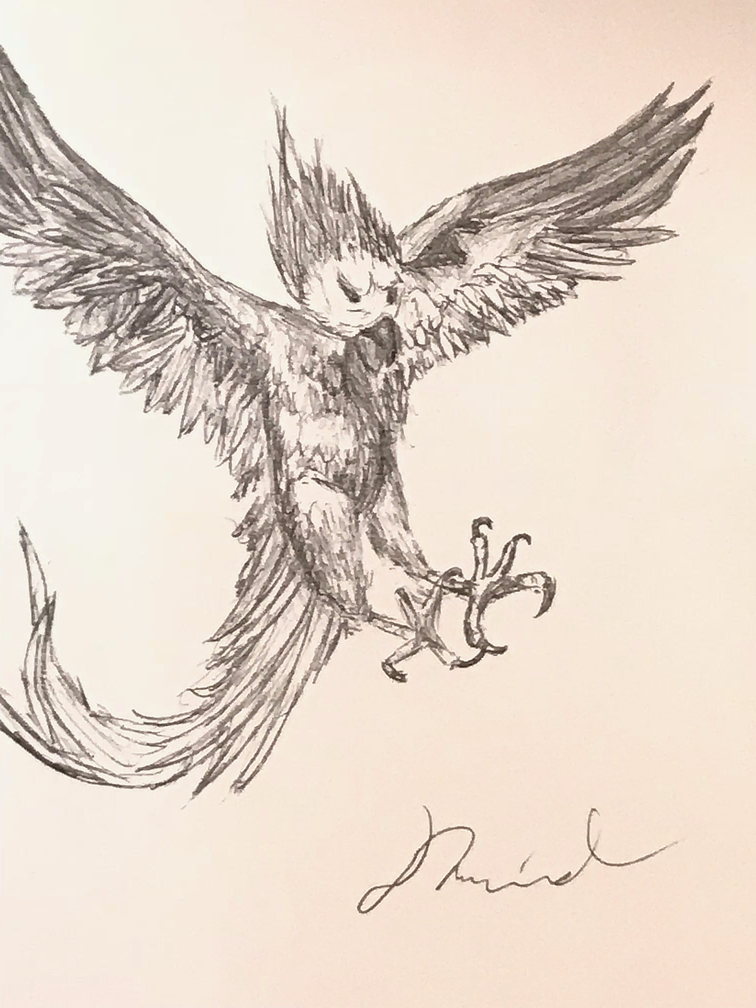
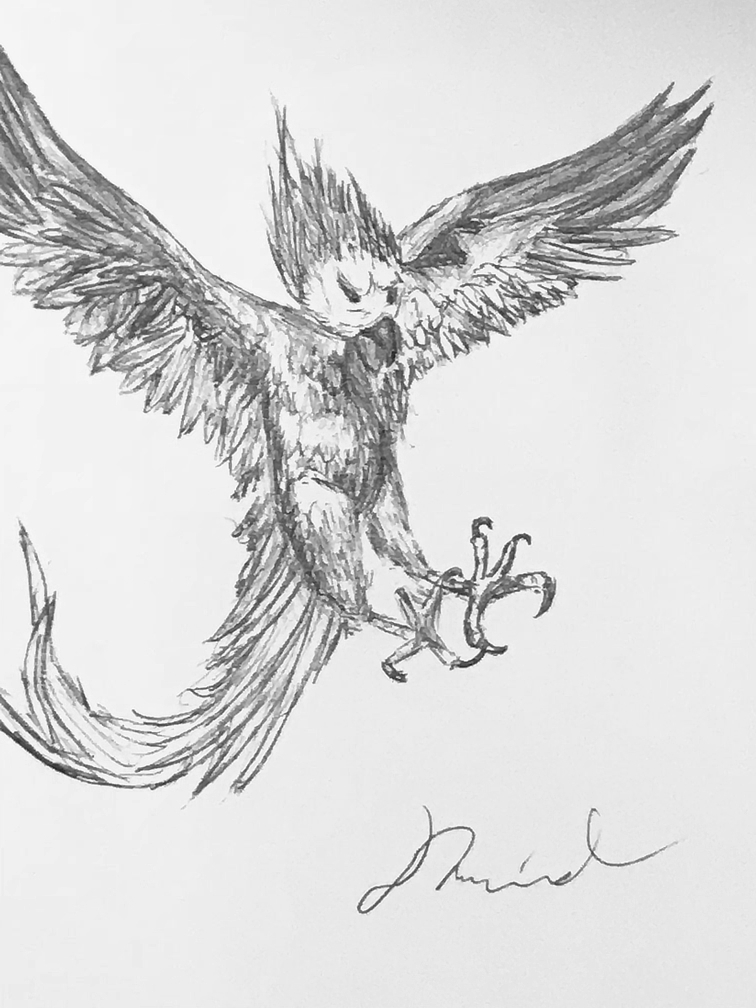
chore: change sketches to grayscale

Changed region(s): [[0.791, 0.0, 1.0, 0.0615], [0.9735, 0.0615, 1.0, 0.0923]]

diff --git a/src/lib/components/SketchesGallery.svelte b/src/lib/components/SketchesGallery.svelte
@@ -26,14 +26,14 @@
 
 <div class="grid grid-cols-2 gap-3 md:grid-cols-3">
   {#each sketches.slice(0, NUM_SHOWN) as sketch}
-    <div class="flex w-full flex-col justify-center rounded-lg bg-stone-300">
+    <div class="flex w-full flex-col justify-center rounded-lg bg-gray-300 grayscale">
       <img src={`/sketches/${sketch}`} alt={sketch.split(".")[0]} class="w-full rounded-lg" />
     </div>
   {/each}
 
   {#if gallery_opened}
     {#each sketches.slice(NUM_SHOWN) as sketch}
-      <div class="flex w-full flex-col justify-center rounded-lg bg-stone-300">
+      <div class="flex w-full flex-col justify-center rounded-lg bg-gray-300 grayscale">
         <img src={`/sketches/${sketch}`} alt={sketch.split(".")[0]} class="w-full rounded-lg" />
       </div>
     {/each}

diff --git a/src/lib/components/PixelArtGallery.svelte b/src/lib/components/PixelArtGallery.svelte
@@ -17,14 +17,14 @@
 
 <div class="grid grid-cols-2 gap-3 md:grid-cols-3">
   {#each pixel_art.slice(0, NUM_SHOWN) as piece}
-    <div class="flex w-full flex-col justify-center rounded-lg bg-stone-300">
+    <div class="flex w-full flex-col justify-center rounded-lg bg-gray-300">
       <img src={`/pixel-art/${piece}`} alt={piece.split(".")[0]} class="w-full rounded-lg" />
     </div>
   {/each}
 
   {#if gallery_opened}
     {#each pixel_art.slice(NUM_SHOWN) as sketch}
-      <div class="flex w-full flex-col justify-center rounded-lg bg-stone-300">
+      <div class="flex w-full flex-col justify-center rounded-lg bg-gray-300">
         <img src={`/pixel-art/${sketch}`} alt={sketch.split(".")[0]} class="w-full rounded-lg" />
       </div>
     {/each}

diff --git a/src/routes/+page.svelte b/src/routes/+page.svelte
@@ -16,7 +16,7 @@
   <p>Hi there! I'm a high school senior in the Bay Area.</p>
 
   <p>
-    I enjoy creating <Link href="#projects">[cool things]</Link> with code, 
+    I enjoy creating <Link href="#projects">[cool things]</Link> with code,
     <Link href="#sketches">[sketching]</Link>, making <Link href="#pixel-art">[pixel art]</Link>,
     and writing <Link href="#stories">[stories]</Link>. Feel free to check out my work below!
   </p>

diff --git a/src/routes/+layout.svelte b/src/routes/+layout.svelte
@@ -3,7 +3,8 @@
 </script>
 
 <div class="flex w-full flex-row lg:justify-center">
-  <div class="flex max-w-5xl flex-col gap-4 sm:gap-8 px-6 pb-16 pt-4 sm:px-12 sm:pt-6 md:px-20 md:pt-10">
+  <div
+    class="flex max-w-5xl flex-col gap-4 px-6 pb-16 pt-4 sm:gap-8 sm:px-12 sm:pt-6 md:px-20 md:pt-10">
     <slot />
   </div>
 </div>

diff --git a/src/lib/components/Link.svelte b/src/lib/components/Link.svelte
@@ -7,6 +7,6 @@
 <a
   {href}
   {target}
-  class={`rounded text-black underline decoration-gray-400 transition hover:bg-gray-200 whitespace-nowrap`}>
+  class={`whitespace-nowrap rounded text-black underline decoration-gray-400 transition hover:bg-gray-200`}>
   <slot />
 </a>
